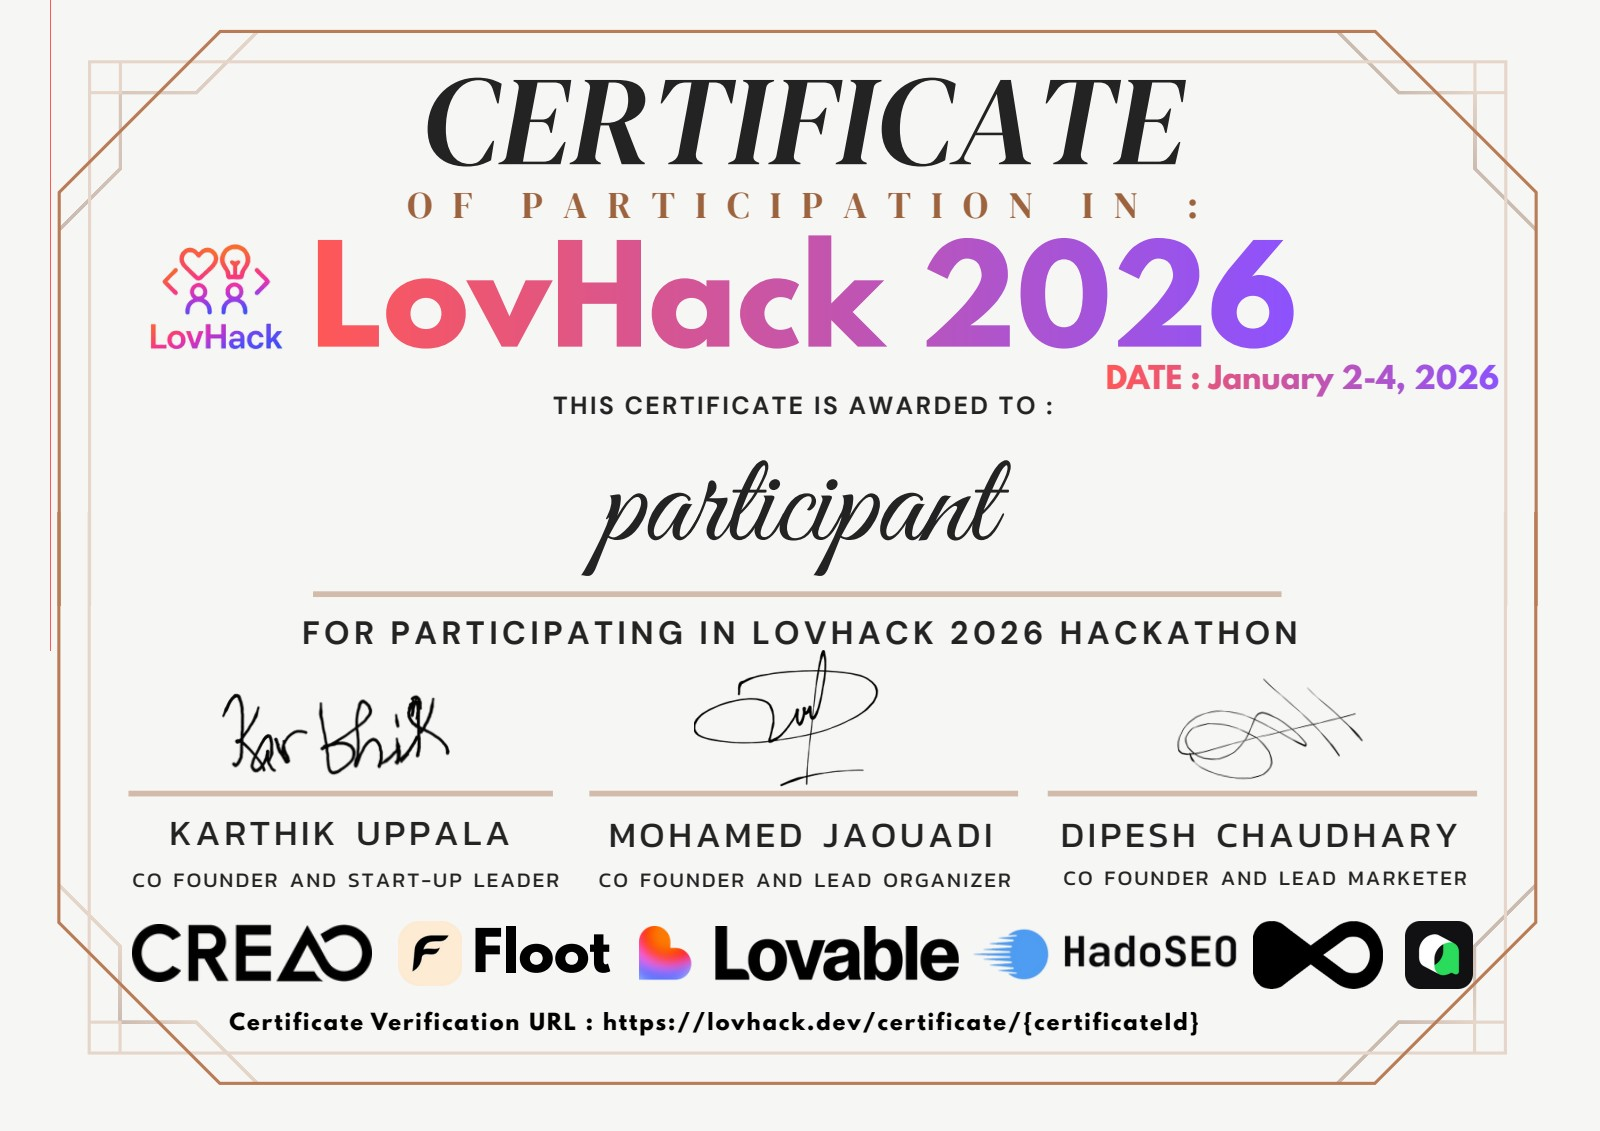
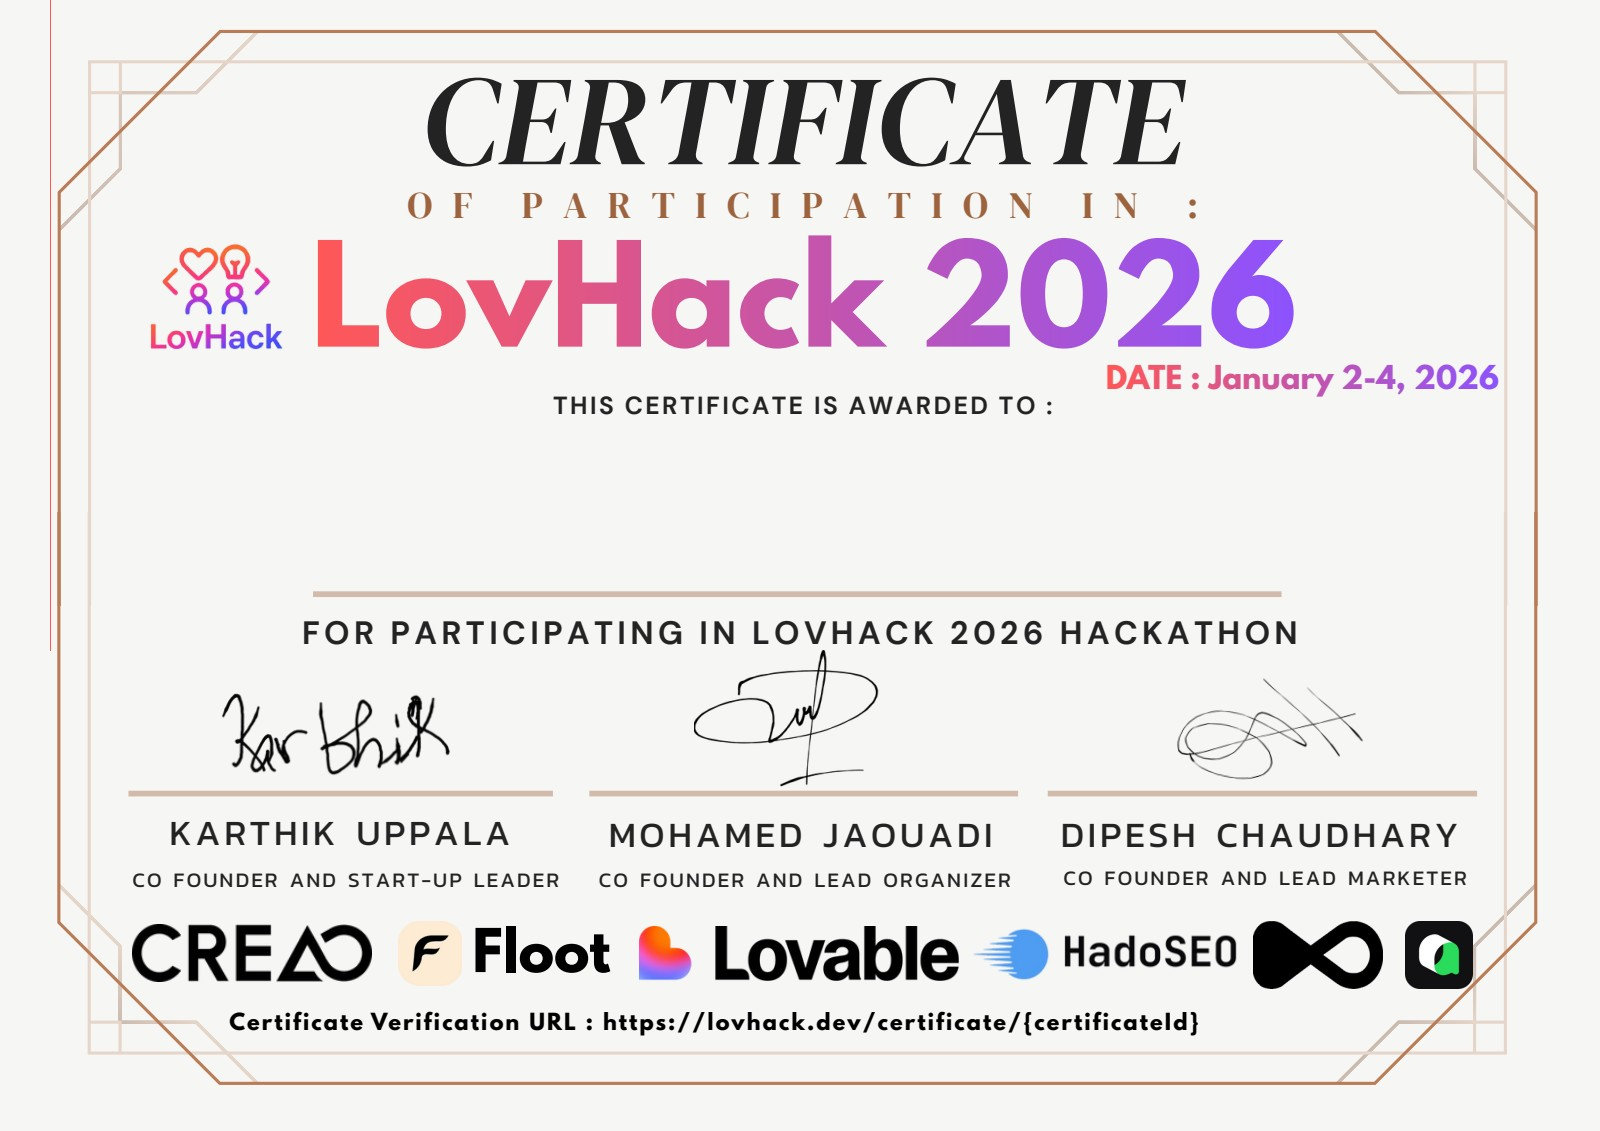
Changes

Changed region(s): [[0.375, 0.4023, 0.625, 0.4951]]

diff --git a/src/pages/CertificateVerification.tsx b/src/pages/CertificateVerification.tsx
@@ -81,19 +81,14 @@ const CertificateVerification = () => {
       // Draw template
       ctx.drawImage(img, 0, 0);
       
-      // Cover the "participant" text with background color
-      const coverY = img.height * 0.40;
-      const coverHeight = img.height * 0.10;
-      ctx.fillStyle = "#f5f0e6";
-      ctx.fillRect(img.width * 0.20, coverY, img.width * 0.60, coverHeight);
-      
-      // Add recipient name over the covered area
-      const fontSize = Math.min(72, img.width / 15);
+      // Add recipient name in the blank area (around 38% from top)
+      const nameY = img.height * 0.42;
+      const fontSize = Math.min(72, img.width / 12);
       ctx.font = `bold ${fontSize}px 'Dancing Script', cursive, serif`;
       ctx.fillStyle = "#8B4513";
       ctx.textAlign = "center";
       ctx.textBaseline = "middle";
-      ctx.fillText(certificate.recipient_name, canvas.width / 2, coverY + coverHeight / 2);
+      ctx.fillText(certificate.recipient_name, canvas.width / 2, nameY);
 
       // Download
       const link = document.createElement("a");
@@ -167,20 +162,10 @@ const CertificateVerification = () => {
                     alt="Certificate Template"
                     className="w-full h-auto"
                   />
-                  {/* White box to cover "participant" text */}
-                  <div 
-                    className="absolute bg-[#f5f0e6]"
-                    style={{ 
-                      top: "40%",
-                      left: "20%",
-                      right: "20%",
-                      height: "10%",
-                    }}
-                  />
-                  {/* Overlay Name */}
+                  {/* Overlay Name in blank area */}
                   <div 
                     className="absolute left-0 right-0 flex items-center justify-center"
-                    style={{ top: "40%" }}
+                    style={{ top: "38%" }}
                   >
                     <span 
                       className="text-3xl sm:text-4xl md:text-5xl lg:text-6xl font-bold text-center px-4"
